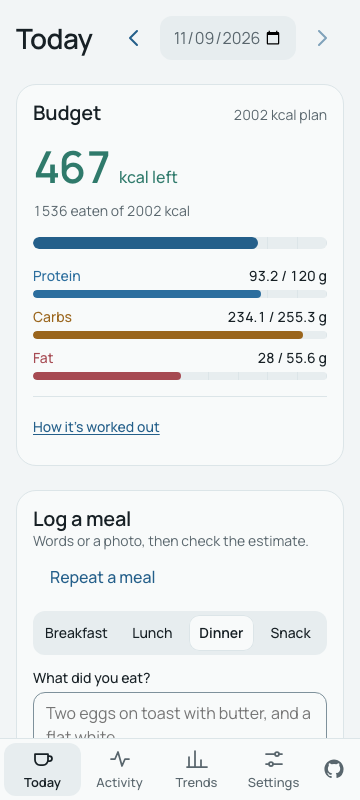
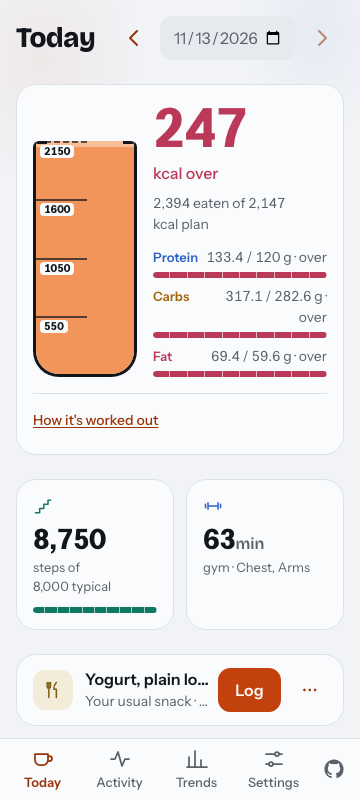
Refresh the docs screenshots and add desktop Today
The README now shows Today on a phone in both themes, and Today and Trends on desktop, all in the Ember jug design with the new logo.

diff --git a/web/e2e/screenshots.spec.ts b/web/e2e/screenshots.spec.ts
@@ -1,6 +1,6 @@
 // SPDX-License-Identifier: AGPL-3.0-or-later
 // Documentation screenshots (PLAN.md §17, D9). Skipped unless SCREENSHOTS is set. It runs its own
-// server and data dir, seeds a profile with two weeks of history, and writes three PNGs under
+// server and data dir, seeds a profile with two weeks of history, and writes four PNGs under
 // docs/screenshots/. Never wired into CI: run it by hand with `SCREENSHOTS=1 npx playwright test`.
 import { expect, test, type Page } from '@playwright/test';
 import { mkdirSync } from 'node:fs';
@@ -38,7 +38,7 @@ async function setTheme(page: Page, theme: 'light' | 'dark'): Promise<void> {
 	await expect(page.locator('html')).toHaveAttribute('data-theme', theme);
 }
 
-test('capture Today in light and dark at 360, then Trends at 1280', async ({ page }) => {
+test('capture Today at 360 in light and dark and at 1280 in dark, then Trends at 1280', async ({ page }) => {
 	// The demo user has 90 days of meals, budgets, steps and weigh-ins.
 	const demo = seedDemoUser(server, 90);
 	await login(page, demo);
@@ -55,6 +55,12 @@ test('capture Today in light and dark at 360, then Trends at 1280', async ({ pag
 	await setTheme(page, 'dark');
 	await expect(page.getByTestId('meal').first()).toBeVisible();
 	await page.screenshot({ path: join(OUT, 'today-360-dark.png') });
+
+	// Today on desktop: the jug column beside logging and meals.
+	await page.setViewportSize({ width: 1280, height: 900 });
+	await page.goto('/');
+	await expect(page.getByTestId('meal').first()).toBeVisible();
+	await page.screenshot({ path: join(OUT, 'today-1280-dark.png') });
 
 	// Trends is a wide screen in the docs.
 	await page.setViewportSize({ width: 1280, height: 1400 });

diff --git a/README.md b/README.md
@@ -31,9 +31,13 @@ Version 0.3.2.
 
 ## Screenshots
 
-| Today, light | Today, dark | Trends |
-| --- | --- | --- |
-| ![Today in light mode](docs/screenshots/today-360-light.png) | ![Today in dark mode](docs/screenshots/today-360-dark.png) | ![Trends on desktop](docs/screenshots/trends-1280.png) |
+| Today on a phone, light | Today on a phone, dark |
+| --- | --- |
+| ![Today in light mode on a phone](docs/screenshots/today-360-light.png) | ![Today in dark mode on a phone](docs/screenshots/today-360-dark.png) |
+
+| Today on desktop | Trends on desktop |
+| --- | --- |
+| ![Today in dark mode on desktop](docs/screenshots/today-1280-dark.png) | ![Trends on desktop](docs/screenshots/trends-1280.png) |
 
 ## Install with Tailscale
 
